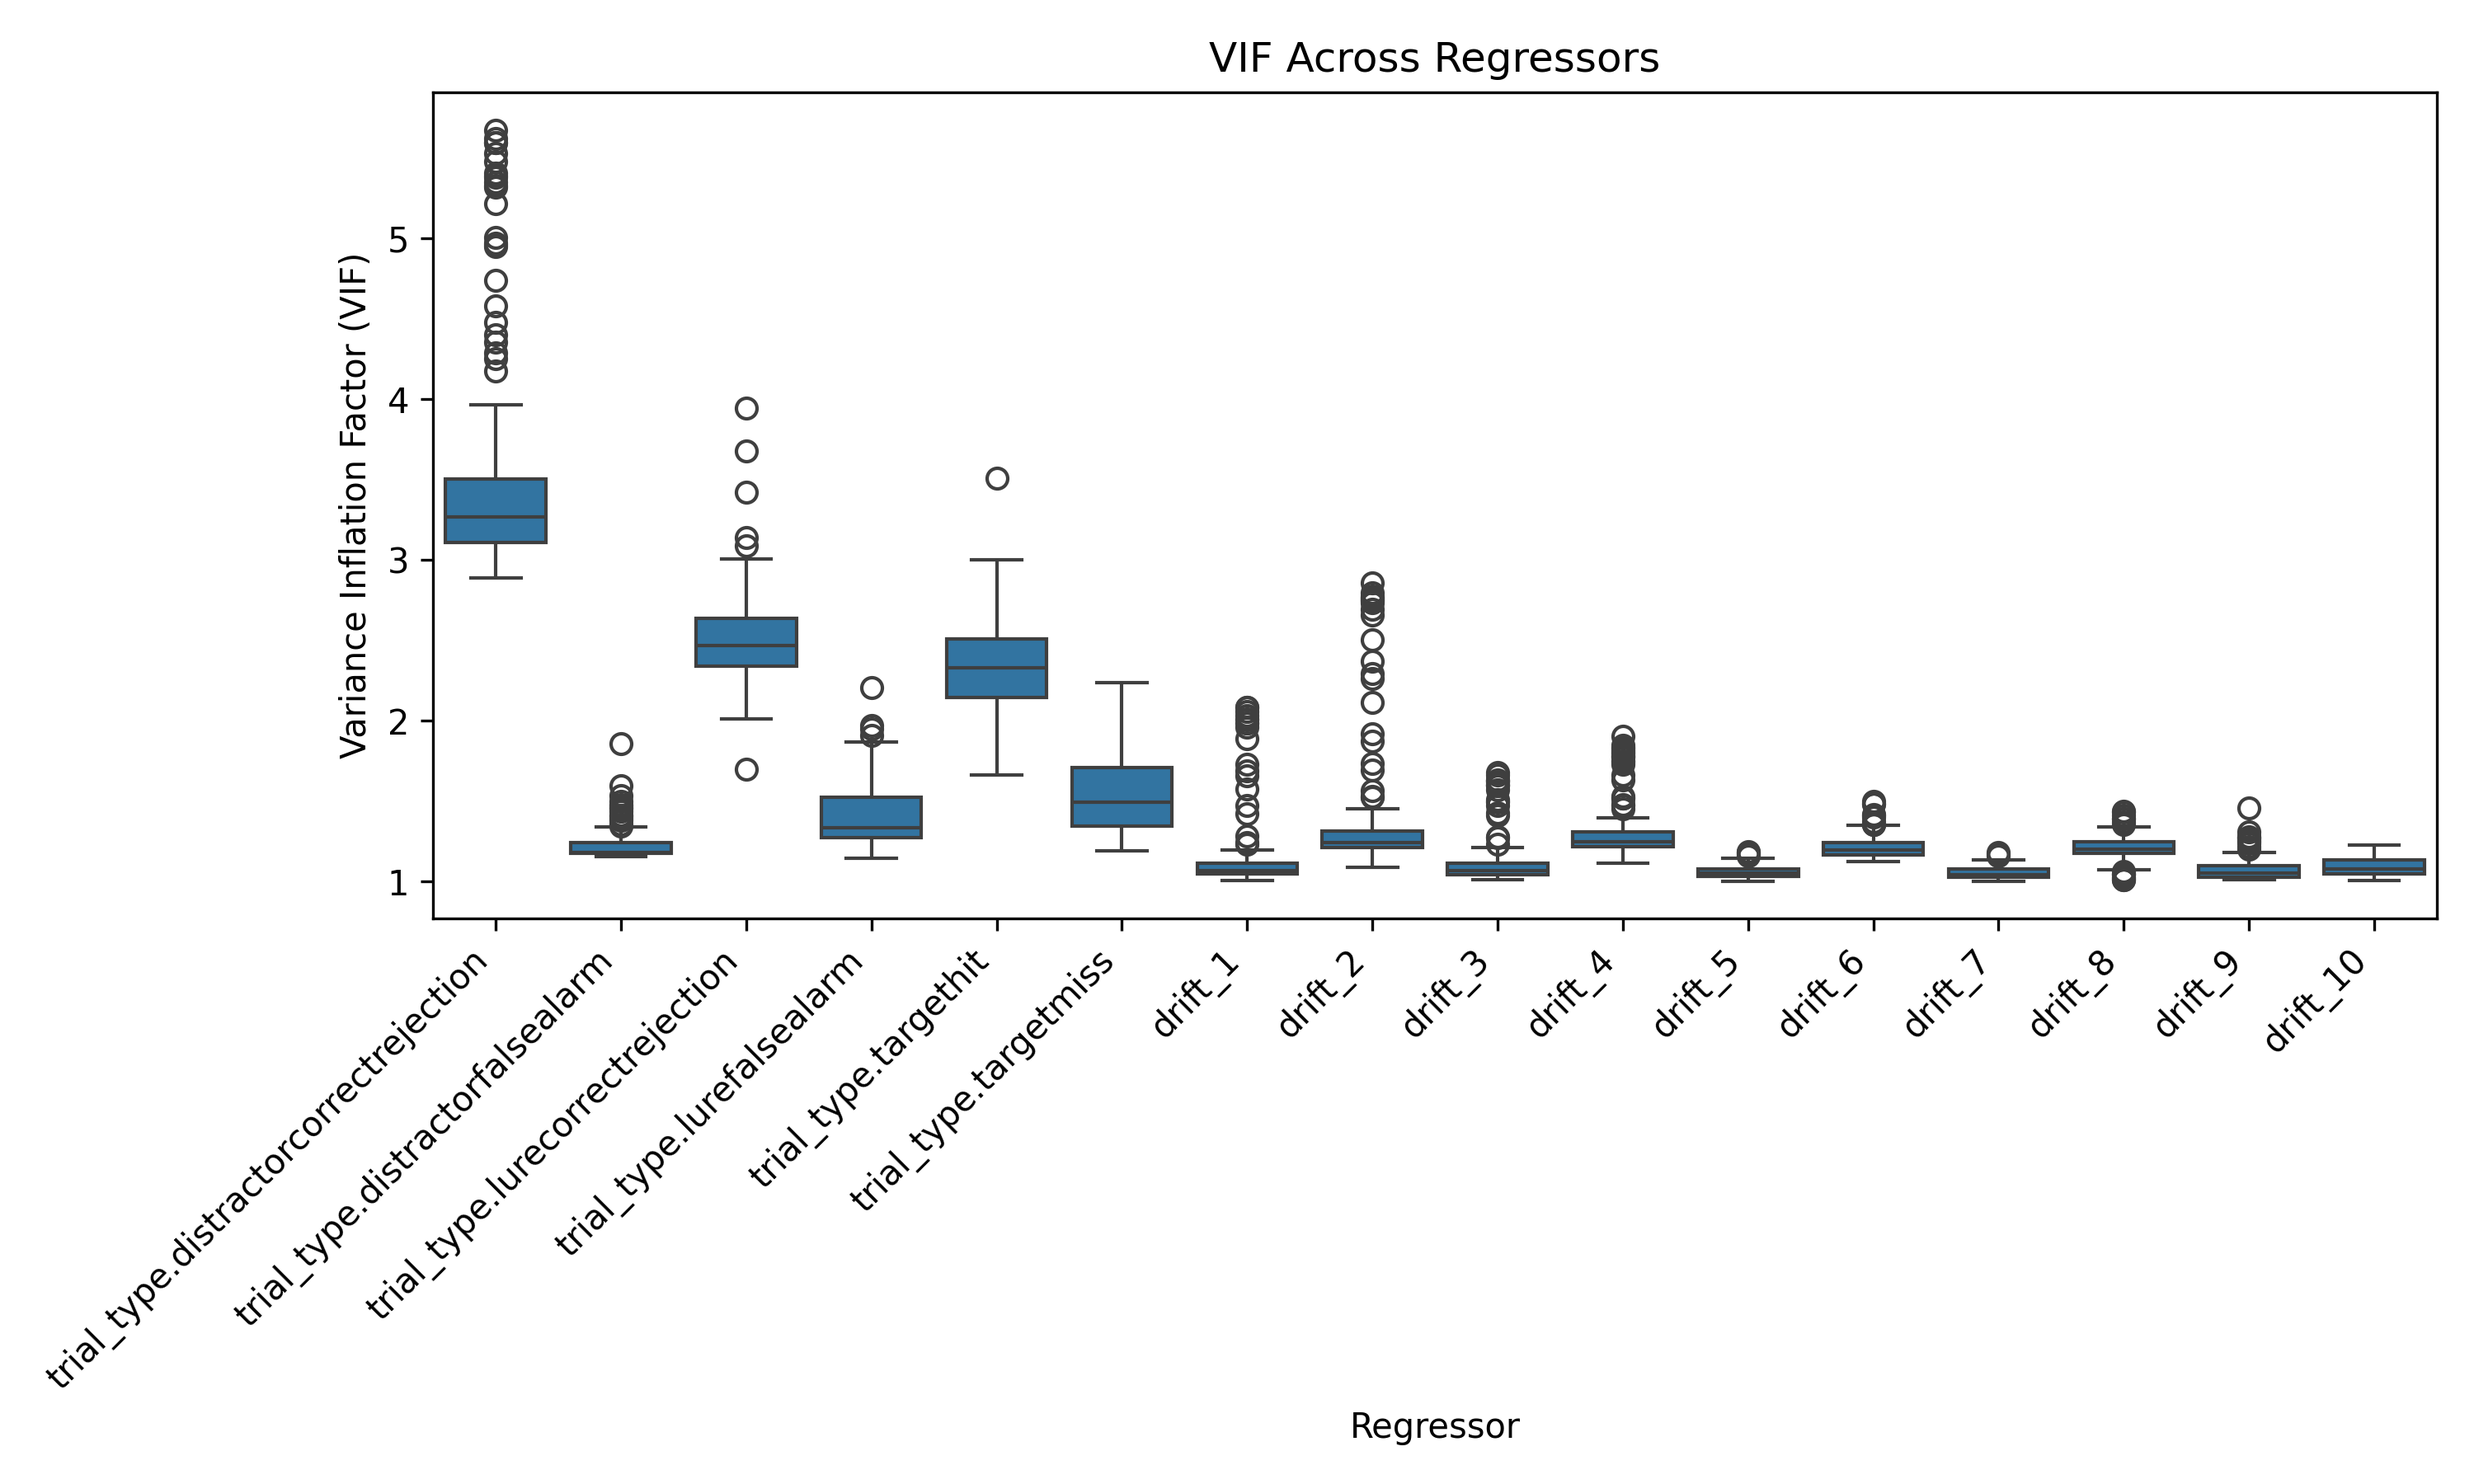
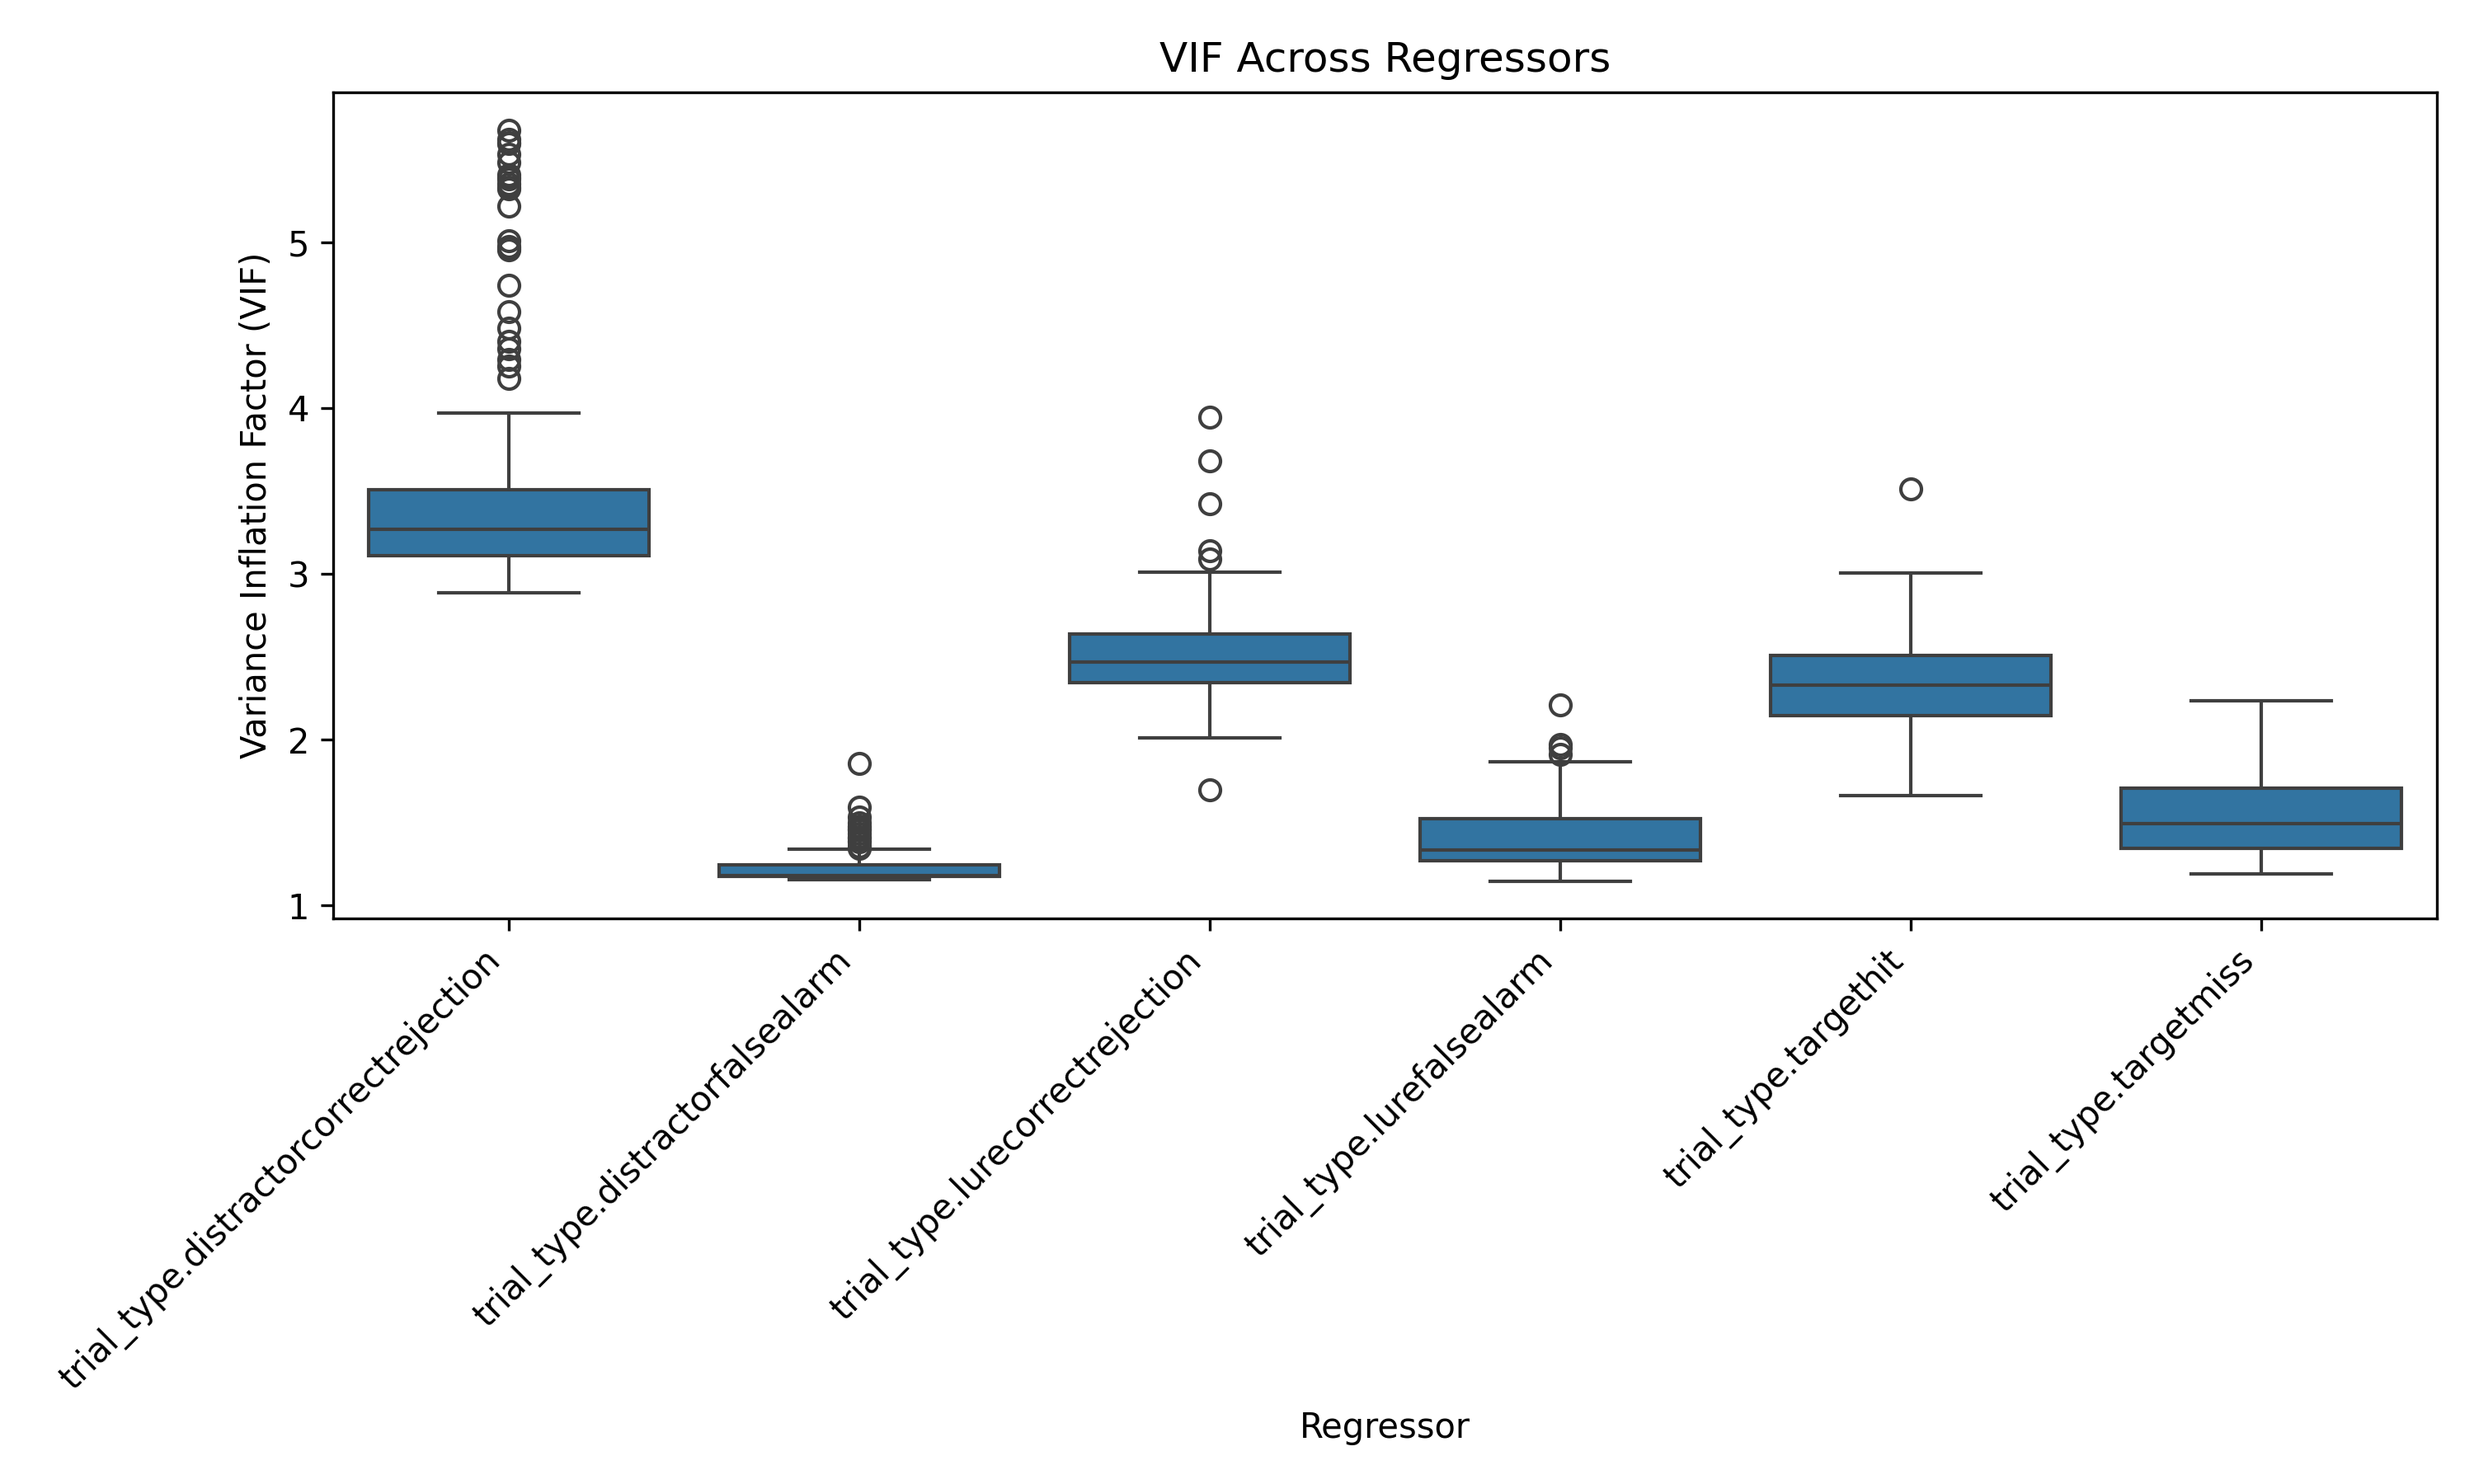
minor group report nuisance reg fix

diff --git a/scripts/prep_report_py/groupmap_report.py b/scripts/prep_report_py/groupmap_report.py
@@ -44,7 +44,7 @@ spec_imgs_dir.mkdir(parents=True, exist_ok=True)
 noise_reg = [
     "motion_", "c_comp_", "a_comp_", "w_comp_", "t_comp_",
     "global_signal", "csf", "white_matter",
-    "rot_", "trans_", "cosine"
+    "rot_", "trans_", "cosine", "drift_"
 ]
 
 # Load model specifications & study details

diff --git a/statsmodel_specs/ds000148/group_figure2backwith1backlures/README.md b/statsmodel_specs/ds000148/group_figure2backwith1backlures/README.md
@@ -2,13 +2,10 @@
 ## Analysis Overview
 Subject-level models were fit for 49 subjects performing the figure2backwith1backlures task.
 HRF model type: spm. Data were smoothed at the each run using a 5mm FWHM (default: isotropic additive smoothing)
-
-*Note: There was an issue with the input confound timeseries derivatives that prevents from modeling the motion and cosine parameters. As a result, only the cosine regressors (drift parameters estimated by fitlins) were used.*
-
 ### Regressors of Interest
-trial_type.distractorcorrectrejection, trial_type.distractorfalsealarm, trial_type.lurecorrectrejection, trial_type.targethit, trial_type.targetmiss, drift_1, drift_2, drift_3, drift_4, drift_5, drift_6, drift_7, drift_8, drift_9, intercept
+trial_type.distractorcorrectrejection, trial_type.distractorfalsealarm, trial_type.lurecorrectrejection, trial_type.targethit, trial_type.targetmiss, intercept
 ### Nuisance Regressors
-None identified
+drift_1, drift_2, drift_3, drift_4, drift_5, drift_6, drift_7, drift_8, drift_9
 ## Model Structure
 - Run-level models: Yes
 - Subject-level models: Yes
